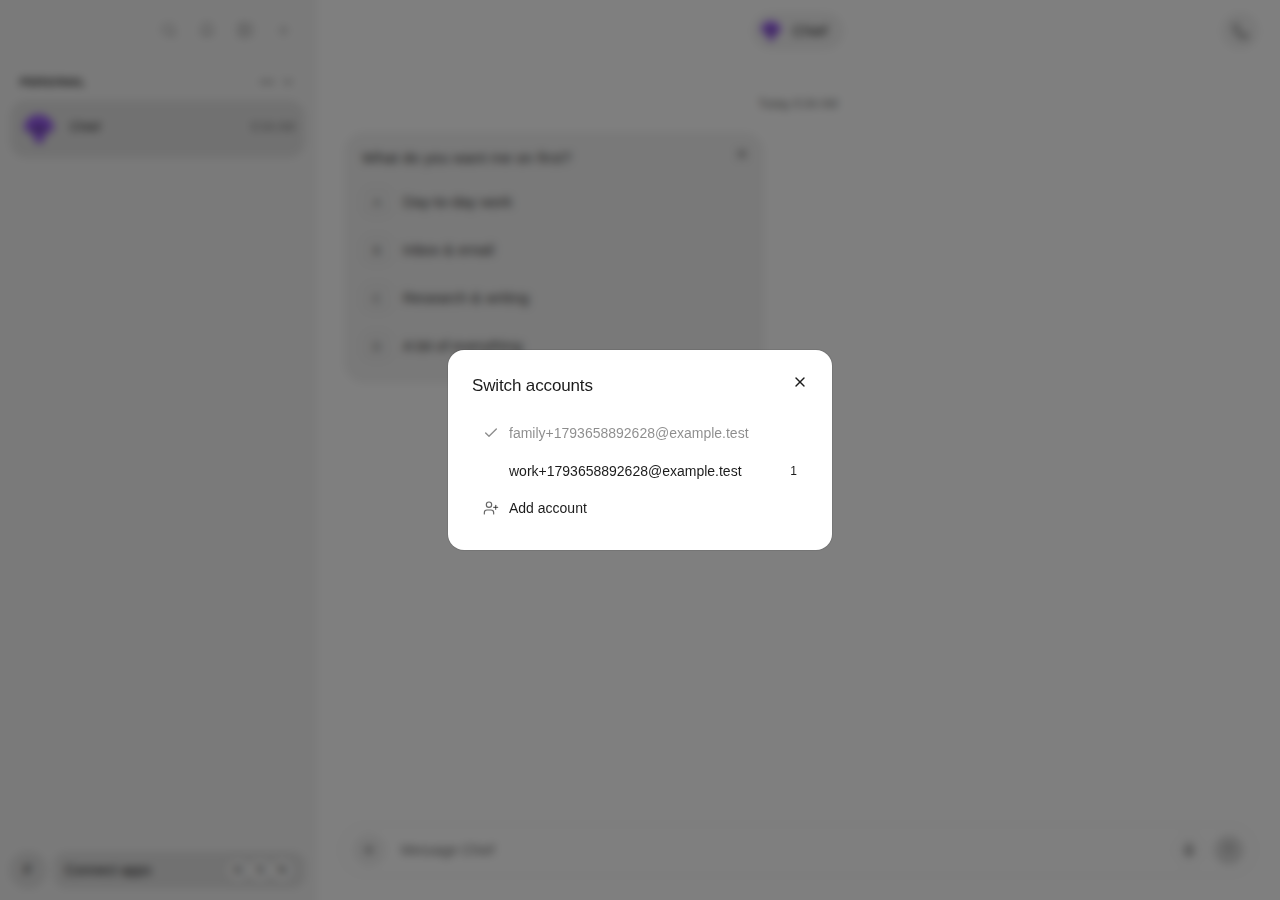
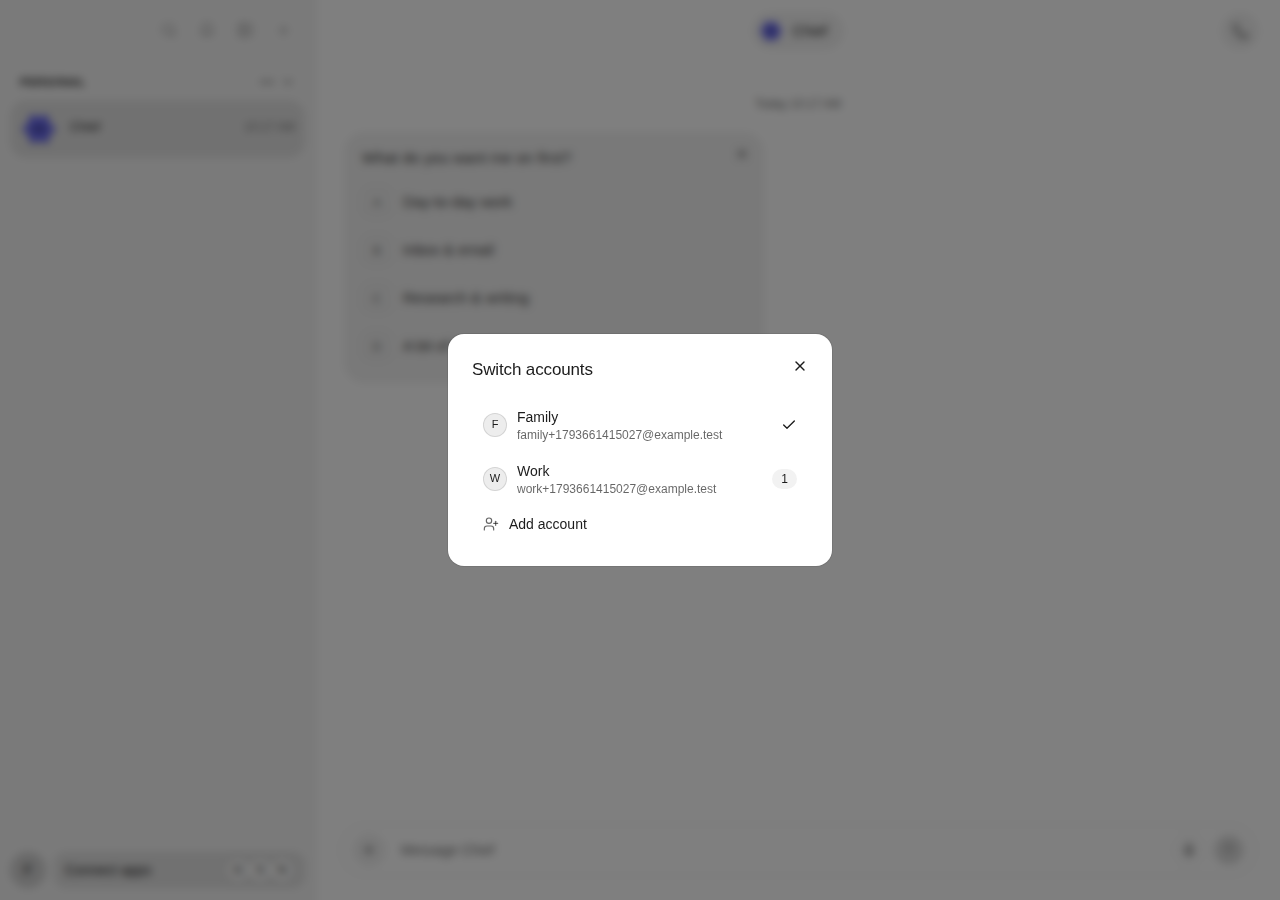
docs: Refresh account picker review captures after consolidation

Changed region(s): [[0.3438, 0.3733, 0.6562, 0.6533]]

diff --git a/README.md b/README.md
@@ -1,63 +1,57 @@
 # Multi-account dogfooding evidence
 
-This branch contains review-only evidence for [the multi-account implementation](https://github.com/elie222/rakazo/pull/3123).
-It has independent history and targets an empty orphan base so this review can be
-closed without merging evidence into the application.
+Review captures for [the multi-account implementation](https://github.com/elie222/rakazo/pull/3123).
+This branch has independent history and targets an empty orphan base. The draft
+can be closed after review without merging evidence into the application.
 
-These are browser dogfooding captures from the actual two-account journey against
-an isolated local API with fictional accounts. They are not captures from a live
-deployment. No private account data, credentials or production services were used.
-
-The journey adds and switches saved accounts without another credential prompt,
-checks each account's unread count, receives a hidden account's notification and
-opens the correct account/chat, follows an account change in another tab, rejects
-a stale-account request, and signs out one or all accounts. It passed.
+These screenshots show the browser journey at feature revision `aabeb1f1f69d81d4055ac776a92fd0a37f65f323`,
+which combines upstream `149fdd606`, the maintainer's published cleanup through
+`c3e00c0d0`, and the account picker. They use fictional accounts against an
+isolated API. No production services or private account data were used.
 
 ## Account menu
 
-The account list opens only after selecting “Switch accounts”. The menu keeps the
-current identity visible. Each account's unread count and the selected checkmark
-remain in the picker. Adding an account is also inside that picker.
+The current identity stays visible. The account list and Add account action open
+only after selecting “Switch accounts”.
 
 ![Account menu](screenshots/account-menu.png)
 
-Receiving a hidden account's notification leaves the current account displayed.
-Only tapping verifies and selects the owning account before opening its chat.
-The updated real browser journey passed at desktop and phone widths. It passed again
-after integrating upstream revision `c511b0477`, preserving the native notification
-lifecycle fix alongside account isolation. Native-device acceptance remains unverified.
+## Desktop account picker
 
-## Desktop switcher
+The picker retains account avatars, names, emails, unread counts and the selected
+checkmark from the maintainer's layout.
 
-![Desktop account switcher](screenshots/switcher-desktop.png)
+![Desktop account picker](screenshots/switcher-desktop.png)
 
-## Phone-width browser switcher
+## Phone-width browser picker
 
-![Phone-width account switcher](screenshots/switcher-phone.png)
+![Phone-width browser picker](screenshots/switcher-phone.png)
 
-This is a responsive browser capture, not an iOS or Android device screenshot.
+This is a responsive browser capture, not a native mobile screenshot.
 
 ## Hidden-account unread count
 
-![Hidden account unread count](screenshots/unread.png)
+Receiving another account's notification leaves the current account displayed.
+Tapping verifies and selects the owning saved account before opening its chat.
 
-## Verification limits
-
-Focused offline tests, Postgres tests, the browser journey, type checks, lint and
-the web production build passed. Three unrelated full-suite shell/backup failures
-were reproduced on pristine starting-revision source.
-
-Physical-device push permissions/delivery, native Kotlin compilation and native
-simulator screenshots remain unverified. The implementation adds a native
-screenshot-catalog flow, but that flow was not run.
-
-This draft contains no application code or workflow configuration. It is intended
-for review and closure, not merge or deployment.
+![Hidden-account unread count](screenshots/unread.png)
 
 ## Sign out all confirmation
 
-The follow-up browser journey verifies that cancelling preserves both saved logins,
-then confirming removes both sessions. This screenshot shows the shared confirmation
-dialog from the feature follow-up in [the implementation PR](https://github.com/elie222/rakazo/pull/3123).
+Cancelling preserves both saved logins. Confirming removes both sessions.
 
 ![Sign out all confirmation](screenshots/sign-out-all.png)
+
+## Verification
+
+The real browser journey passed for adding and switching accounts, unread counts,
+hidden-account notification routing, tab refresh, stale-request rejection and
+independent/all-account sign-out. Focused unit tests, three PostgreSQL suites,
+workspace typechecks, lint and the web production build also passed.
+
+Physical-device push delivery, native compilation and the iOS screenshot flow
+remain unverified. This evidence does not cover the maintainer's additional
+unpublished rewrite; integrating that pass needs a published ref.
+
+This draft contains no application code or workflow configuration. It is for
+review and closure, not merge or deployment.
